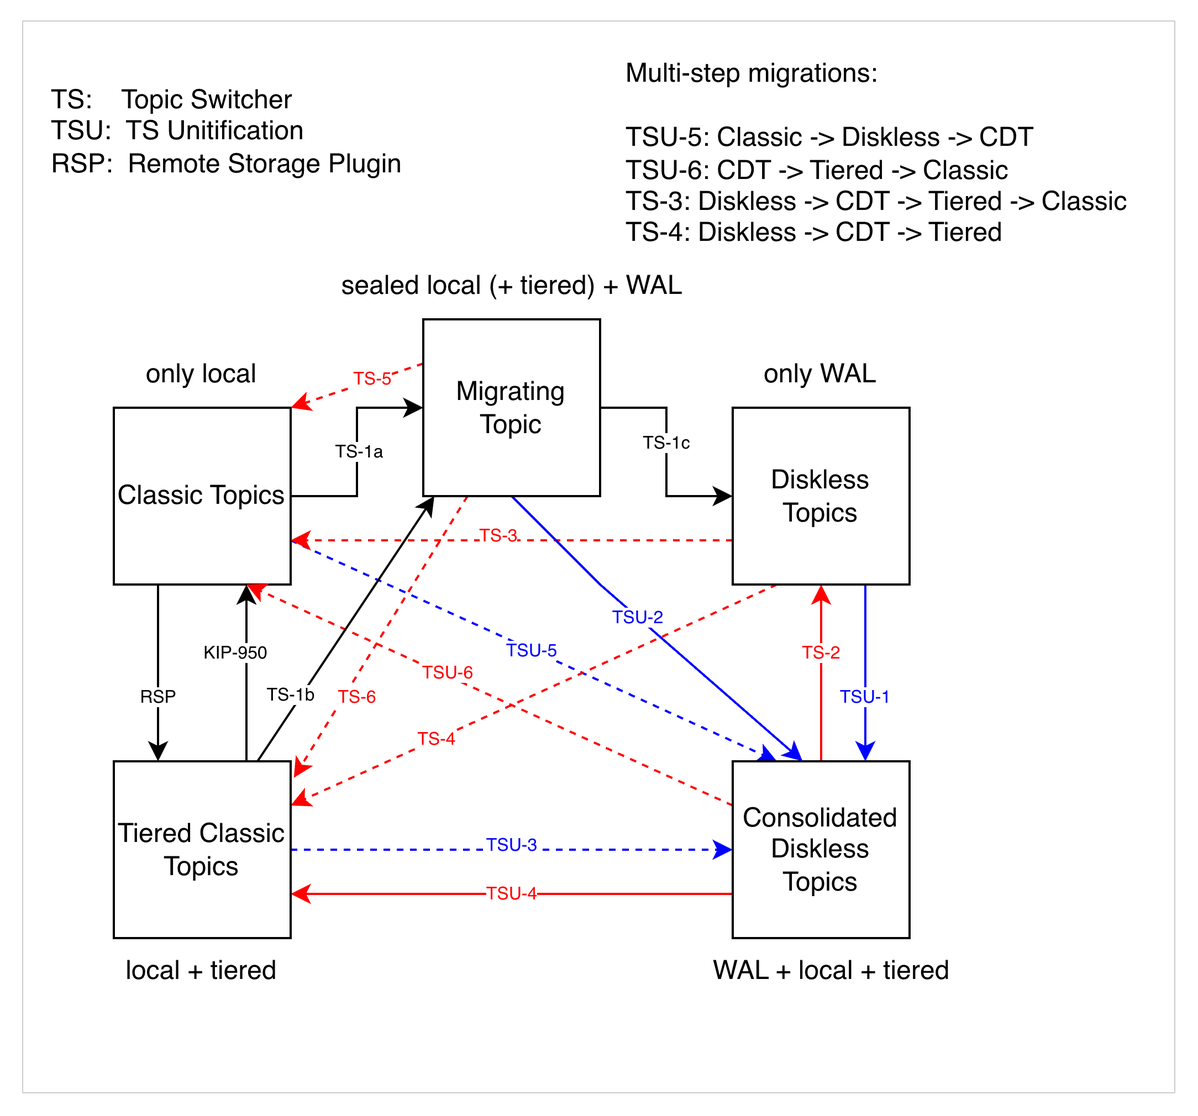
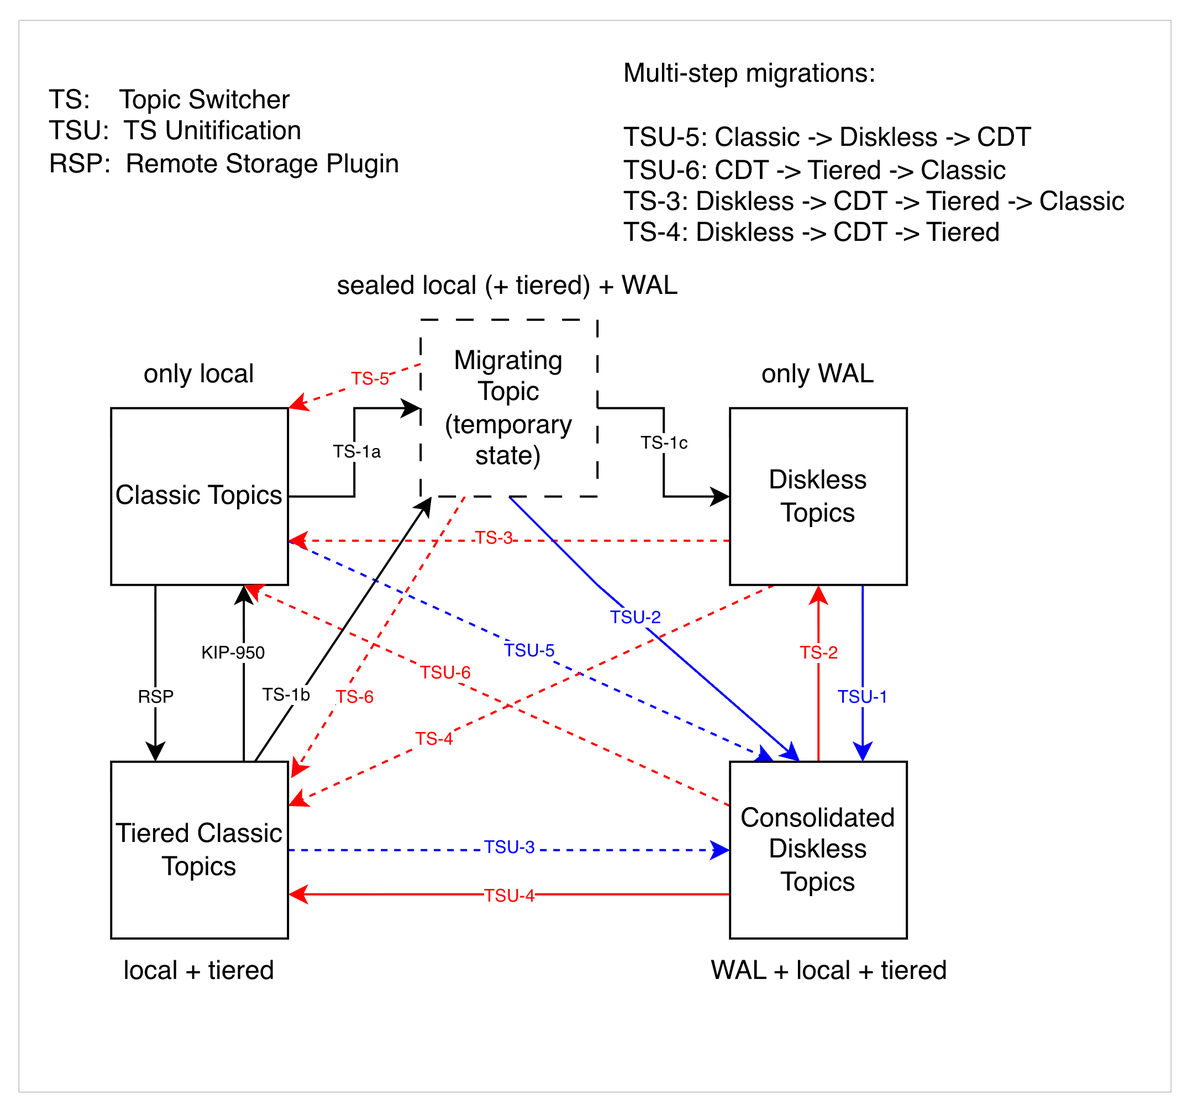
apply suggestions from code review

diff --git a/docs/inkless/DISKLESS_CONSOLIDATION.md b/docs/inkless/DISKLESS_CONSOLIDATION.md
@@ -1,10 +1,12 @@
 # Tiered storage consolidation
 
-Tiered storage consolidation (TS consolidation, internally "TS unification") distills diskless Write-Ahead Log (WAL) segments into classic Kafka log segments and tiers them to remote storage. The result is a *consolidated diskless topic* (CDT): a topic that writes through the diskless fast path and reads like a tiered topic. The diskless WAL is a temporary buffer, not long-term storage.
+Tiered storage consolidation (TS consolidation) distills diskless Write-Ahead Log (WAL) segments into classic Kafka log segments and tiers them to remote storage. The result is a *consolidated diskless topic* (CDT): a topic that writes through the diskless fast path and reads like a tiered topic. The diskless WAL is a temporary buffer, not long-term storage.
 
-A consolidated diskless topic has both `diskless.enable=true` and `remote.storage.enable=true`. The classic-to-diskless switch sets both atomically. For more information, see [CLASSIC_TO_DISKLESS_SWITCH.md](CLASSIC_TO_DISKLESS_SWITCH.md). A switched or born-consolidated topic is therefore always consolidating.
+Internally, **TS unification** is the umbrella for three features: [managed replicas](FEATURES.md#managed-replicas), the [classic-to-diskless switch](CLASSIC_TO_DISKLESS_SWITCH.md), and TS consolidation. This document is the consolidation piece.
 
-The broker gates the feature behind `diskless.remote.storage.consolidation.enable`. That flag also requires `diskless.allow.from.classic.enable=true`, managed replicas, and `remote.log.storage.system.enable=true`.
+A consolidated diskless topic has both `diskless.enable=true` and `remote.storage.enable=true`. Origin and consolidation are separate. A *born-diskless* topic is created with `diskless.enable=true` and consolidates only if it is also created with `remote.storage.enable=true`. A *born-classic* topic consolidates after the [classic-to-diskless switch](CLASSIC_TO_DISKLESS_SWITCH.md), which sets both flags atomically, so a switched topic is always consolidating.
+
+The broker gates the feature behind `diskless.remote.storage.consolidation.enable`, which currently defaults to `false`. That flag also requires `diskless.allow.from.classic.enable=true`, managed replicas, and `remote.log.storage.system.enable=true`. Consolidation will be the default going forward.
 
 ## Motivation
 
@@ -37,13 +39,11 @@ The better shape matches the Kafka replica-fetcher model. A leader replica handl
 
 ### Consolidation pipeline
 
-Without consolidation, the diskless coordinator stores WAL segments in object storage. They remain there until `log.local.retention.ms` elapses, then the broker deletes them.
+Without consolidation, diskless WAL segments are stored in object storage. They remain there until `log.local.retention.ms` elapses, then the broker deletes them.
 
 With consolidation, a fetcher reads the oldest batches from the diskless WAL, in insertion order so ordering is preserved, and appends them to a per-partition `UnifiedLog` through the `Partition` class. The `RemoteLogManager` copies those local segments to remote storage the same way it does for a classic tiered topic. After remote storage confirms a batch, the pruner deletes the matching WAL data.
 
-The fetcher splits interleaved WAL files into per-partition local segments. The `RemoteLogManager` then tiers those segments to remote storage.
-
-The consolidation pipeline is a specialized replica-fetcher. It pulls from the diskless tier (object storage and the control plane) instead of from a leader broker. For the component breakdown, see [Implementation](#implementation).
+The fetcher splits interleaved WAL files into per-partition local segments. The `RemoteLogManager` then tiers those segments to remote storage. For the component breakdown, see [Implementation](#implementation).
 
 ### Log continuity
 
@@ -113,14 +113,14 @@ Followers must never replicate diskless records into their local log. When a par
 
 ### Cross-tier log start offset
 
-On a born-consolidated topic, the earliest readable offset eventually lives only in the remote tier: the diskless WAL is pruned and local segments are evicted, yet `ListOffsets(EARLIEST)` must still point at real data. When `retention.ms` expires the oldest remote segments, only the partition's classic leader observes the earliest offset advancing. Its `RemoteLogManager` raises `UnifiedLog.logStartOffset` as it deletes them. That value is broker-local. Followers fetch from the diskless WAL and never learn it, and the control plane's `log_start_offset` tracks only the WAL prune frontier, not the remote-retention frontier.
+On a consolidating born-diskless topic, the earliest readable offset eventually lives only in the remote tier: the diskless WAL is pruned and local segments are evicted, yet `ListOffsets(EARLIEST)` must still point at real data. When `retention.ms` expires the oldest remote segments, only the partition's classic leader observes the earliest offset advancing. Its `RemoteLogManager` raises `UnifiedLog.logStartOffset` as it deletes them. That value is broker-local. Followers fetch from the diskless WAL and never learn it, and the control plane's `log_start_offset` tracks only the WAL prune frontier, not the remote-retention frontier.
 
 Without this feature, `ListOffsets(EARLIEST_TIMESTAMP)` (`--time -2`) served by any non-leader broker returned a stale `0`, pointing consumers at data that no longer exists. `EARLIEST_LOCAL_TIMESTAMP` (`--time -4`) is intentionally unaffected: it must keep returning the diskless WAL log start.
 
 The leader is the only participant that knows the cross-tier earliest offset, but any broker must be able to serve it. The control plane is the source of truth, with a short-TTL cache:
 
-- **Write path (leader).** `CrossTierLogStartReporter` buffers per-partition updates, drops non-advancing ones, coalesces, and flushes to the control plane once a second. On success it writes through to the cache. The `RemoteLogManager` callback in `BrokerServer`/`ReplicaManager` triggers it on the leader. It is a no-op for non-consolidating and classic topics, and for strictly negative offsets. `0` is meaningful and is reported: it is the cross-tier earliest of a freshly-tiered born-consolidated topic whose WAL prune frontier has advanced above it.
-- **Read path (any broker).** `FetchOffsetHandler` serves `EARLIEST` on a consolidating diskless topic through the `CrossTierLogStartCache` first. On a miss it queries the control plane and populates the cache. `DisklessFetchOffsetRouter` routes `EARLIEST` for every consolidating partition (born-consolidated and switched alike) to this control-plane leg, never to the broker-local classic log. That routing is required under managed replicas. `InklessTopicMetadataTransformer` advertises a hash-selected replica (usually a follower) as the partition leader, and a follower's local classic log start is frozen at the switch. Serving `EARLIEST` from that local start would pin the client-visible earliest at a stale value, for example `0` after a `DeleteRecords` the follower never applied. The control-plane value is broker-agnostic, so every broker returns the same cross-tier earliest. Non-consolidating switched partitions keep serving `EARLIEST` from the classic leg while it still owns the pre-switch prefix.
+- **Write path (leader).** `CrossTierLogStartReporter` buffers per-partition updates, drops non-advancing ones, coalesces, and flushes to the control plane once a second. On success it writes through to the cache. The `RemoteLogManager` callback in `BrokerServer`/`ReplicaManager` triggers it on the leader. It is a no-op for non-consolidating and classic topics, and for strictly negative offsets. `0` is meaningful and is reported: it is the cross-tier earliest of a freshly-tiered consolidating born-diskless topic whose WAL prune frontier has advanced above it.
+- **Read path (any broker).** `FetchOffsetHandler` serves `EARLIEST` on a consolidating diskless topic through the `CrossTierLogStartCache` first. On a miss it queries the control plane and populates the cache. `DisklessFetchOffsetRouter` routes `EARLIEST` for every consolidating partition (born-diskless and switched alike) to this control-plane leg, never to the broker-local classic log. That routing is required under managed replicas. `InklessTopicMetadataTransformer` advertises a hash-selected replica (usually a follower) as the partition leader, and a follower's local classic log start is frozen at the switch. Serving `EARLIEST` from that local start would pin the client-visible earliest at a stale value, for example `0` after a `DeleteRecords` the follower never applied. The control-plane value is broker-agnostic, so every broker returns the same cross-tier earliest. Non-consolidating switched partitions keep serving `EARLIEST` from the classic leg while it still owns the pre-switch prefix.
 - **Whole-log start and reclaim floor (leader).** The same control-plane value is the authoritative whole-log start and remote-retention reclaim floor for a consolidating partition, not the broker-local `UnifiedLog.logStartOffset`. On a freshly-elected leader whose classic prefix was already evicted, the leadership rebuild pins the local log start at the seal, and that start can only increment. Using it would over-reclaim the remote classic prefix `[earliest, seal)` and reject reads of that prefix as out-of-range. `DisklessLeaderEndPoint` therefore reports `min(X, localLogStart)` as the whole-log start, so a read of the surviving prefix redirects to the remote tier and the tier-state rebuild restarts at `X`. `RemoteLogManager` uses `X` as the log-start-breach reclaim floor and the become-leader report. Both go through `ReplicaManager.crossTierEarliestOffset`, where `X` is `COALESCE(remote_log_start_offset, log_start_offset)`. This runs on the `RemoteLogManager` leader, which under managed replicas differs from the broker that served a `DeleteRecords`, so a broker-agnostic source is mandatory.
 - **Cache.** Caffeine-backed with a TTL and a monotonic `put` (a `Null` implementation disables it); owned by `SharedState`. A stale entry can only ever be too low (the safe direction), so it only delays when a retention advance becomes visible off-leader.
 - **Storage.** The value is kept in `logs.remote_log_start_offset` (migration `V16`), advanced only forward via `advance_cross_tier_log_start_offset_v1`. `list_offsets_v1` (migration `V17`) returns it for `EARLIEST`, while `EARLIEST_LOCAL` keeps returning `log_start_offset`.
@@ -233,7 +233,7 @@ The reconciler runs per partition before a fetcher is armed. It enforces the `di
 ```mermaid
 flowchart TD
     start([Partition becomes online]) --> seal{classicToDisklessStartOffset?}
-    seal -- "NO_CLASSIC_TO_DISKLESS_START_OFFSET\n(born-diskless / born-consolidated)" --> ready[Ready: arm at initialFetchOffset]
+    seal -- "NO_CLASSIC_TO_DISKLESS_START_OFFSET\n(born-diskless)" --> ready[Ready: arm at initialFetchOffset]
     seal -- "SWITCH_PENDING" --> retry[Retry: classic switch in progress]
     seal -- "seal >= 0" --> remote{remote.storage.enable?}
     remote -- "off" --> failed[Failed: invariant violation\nsee DisklessWithoutRemoteStorageCount]
@@ -319,7 +319,7 @@ Broker-level configs live in `ServerConfigs` (no prefix) and `InklessConfig` (un
 | ---------------------------------------------- | ------- | ------------------------------------------------------------------------------------------------------------------------------------------------------------------------------ |
 | `diskless.remote.storage.consolidation.enable` | `false` | Enables the consolidation framework. Requires `diskless.allow.from.classic.enable=true`, `diskless.managed.rf.enable=true`, and `remote.log.storage.system.enable=true`. |
 
-Per topic, consolidation runs when `diskless.enable=true` and `remote.storage.enable=true`. The classic-to-diskless switch sets both atomically. A born-consolidated topic is created with both.
+Per topic, consolidation runs when `diskless.enable=true` and `remote.storage.enable=true`. The classic-to-diskless switch sets both atomically. A born-diskless topic consolidates when it is created with both.
 
 ### Consolidation fetcher tuning
 
@@ -375,7 +375,7 @@ Unit tests cover the feature. They include `DeleteRecords` into a switched topic
 
 Integration tests cover produce and consume on consolidating topics, reads that cross the local/diskless boundary, concurrent produce during consolidation, a classic-to-diskless-to-consolidated switch, and reassignment that resumes consolidation on a new broker without data loss.
 
-System tests (ducktape) cover born-consolidated and switched consolidating topics. To run them, see [SYSTEM_TESTS.md](SYSTEM_TESTS.md). They cover the following:
+System tests (ducktape) cover consolidating born-diskless topics and switched topics. To run them, see [SYSTEM_TESTS.md](SYSTEM_TESTS.md). They cover the following:
 
 - The pipeline: the WAL drains into the local log and then to remote storage, the WAL is pruned, and every acked record is still consumable. Consolidation JMX gauges are asserted along the way.
 - Durability after local loss: once the prefix is remote-only, wiping every partition directory and restarting still serves the full log from remote storage, including a switched topic whose offset 0 was written under a classic epoch.
@@ -384,5 +384,6 @@ System tests (ducktape) cover born-consolidated and switched consolidating topic
 
 ## Related documents
 
+- [FEATURES.md](FEATURES.md#managed-replicas): Managed replicas, the replica-assignment piece of TS unification.
 - [CLASSIC_TO_DISKLESS_SWITCH.md](CLASSIC_TO_DISKLESS_SWITCH.md): The classic-to-diskless migration that produces a consolidating topic. Sets `diskless.enable` and `remote.storage.enable` atomically.
-- [ARCHITECTURE.md](ARCHITECTURE.md), [FEATURES.md](FEATURES.md), [GLOSSARY.md](GLOSSARY.md).
+- [ARCHITECTURE.md](ARCHITECTURE.md), [GLOSSARY.md](GLOSSARY.md).

diff --git a/docs/inkless/GLOSSARY.md b/docs/inkless/GLOSSARY.md
@@ -32,15 +32,27 @@ A local in-memory cache (Caffeine) on each broker that stores the metadata of re
 **Batch Index**
 Another term for the Batch Coordinator's storage layer. In the PostgreSQL implementation, this refers to the database tables that store batch coordinates.
 
+**Born-Classic Topic**
+A topic created with `diskless.enable=false`. It stores data on local broker disks and may use classic tiered storage. It can later become diskless through the [Classic-to-Diskless Switch](#classic-to-diskless-switch). Contrast with [Born-Diskless Topic](#born-diskless-topic).
+
+**Born-Diskless Topic**
+A topic created with `diskless.enable=true`. It has no classic prefix and no seal (`classicToDisklessStartOffset` is unset). Consolidation is a separate property: a born-diskless topic consolidates only when it also has `remote.storage.enable=true`. Older text sometimes called that combination "born-consolidated"; use *born-diskless* for origin and *consolidating* (or [CDT](#consolidated-diskless-topic-cdt)) for the storage mode. Contrast with a [Switched Topic](#switched-topic), which started as [born-classic](#born-classic-topic).
+
 ---
 
 ## C
 
 **Classic Topics**
-Standard Apache Kafka topics that store data on local broker disks with replication. Contrasted with diskless topics.
+Standard Apache Kafka topics that store data on local broker disks with replication. Contrasted with diskless topics. See also [Born-Classic Topic](#born-classic-topic).
+
+**Classic-to-Diskless Switch**
+The protocol that migrates a classic topic to diskless storage by sealing the local log and initializing a diskless log from the committed seal. One of the three features under [TS Unification](#ts-unification--tiered-storage-unification). See [CLASSIC_TO_DISKLESS_SWITCH.md](./CLASSIC_TO_DISKLESS_SWITCH.md).
 
 **Cold Path**
 The fetch processing path for lagging consumer requests (data older than the threshold). Bypasses cache to avoid evicting hot data, uses a dedicated bounded executor pool with optional rate limiting, and a separate storage client for resource isolation. See also: [Hot Path](#hot-path).
+
+**Consolidated Diskless Topic (CDT)**
+A topic with both `diskless.enable=true` and `remote.storage.enable=true`. Writes go through the diskless WAL; [TS Consolidation](#ts-consolidation--tiered-storage-consolidation) rewrites those WAL segments into classic Kafka log segments and tiers them to remote storage. A CDT is either a [born-diskless](#born-diskless-topic) topic created with remote storage, or a [switched](#switched-topic) topic. See [DISKLESS_CONSOLIDATION.md](./DISKLESS_CONSOLIDATION.md).
 
 **Control Plane**
 The metadata management layer in Inkless, responsible for coordinating batch commits and lookups. See also: [Batch Coordinator](#batch-coordinator).
@@ -50,7 +62,7 @@ The metadata management layer in Inkless, responsible for coordinating batch com
 ## D
 
 **Diskless Topics**
-Topics configured with `diskless.enable=true` that store data in object storage instead of on local broker disks. The core feature of Inkless.
+Topics configured with `diskless.enable=true` that store data in object storage instead of on local broker disks. The core feature of Inkless. See also [Born-Diskless Topic](#born-diskless-topic).
 
 **`diskless_az`**
 A marker embedded in the `client.id` configuration to communicate the client's availability zone to brokers. Format: `client.id=<app>,diskless_az=<rack>` where `<rack>` matches the broker's `broker.rack` value. See [CLIENT-BROKER-AZ-ALIGNMENT.md](./CLIENT-BROKER-AZ-ALIGNMENT.md) for details.
@@ -84,7 +96,7 @@ Unlike traditional Kafka where a partition leader handles all writes and most re
 ## M
 
 **Managed Replicas**
-Diskless topics created with `diskless.managed.rf.enable=true` use real KRaft-managed replicas with rack-aware placement. These replicas are metadata-only — there is no inter-broker data replication (data remains in object storage). Unlike legacy RF=1 diskless topics, managed replicas provide deterministic replica assignments, standard Kafka tooling compatibility, and a foundation for future topic migration (Classic <-> Diskless). ISR membership for managed replicas is liveness-gated (not lag-gated) since data is in object storage. See [FEATURES.md](./FEATURES.md#managed-replicas) for details.
+Diskless topics created with `diskless.managed.rf.enable=true` use real KRaft-managed replicas with rack-aware placement. These replicas are metadata-only — there is no inter-broker data replication (data remains in object storage). Unlike legacy RF=1 diskless topics, managed replicas provide deterministic replica assignments, standard Kafka tooling compatibility, and a foundation for topic migration (Classic <-> Diskless). ISR membership for managed replicas is liveness-gated (not lag-gated) since data is in object storage. One of the three features under [TS Unification](#ts-unification--tiered-storage-unification). See [FEATURES.md](./FEATURES.md#managed-replicas) for details.
 
 **Mixed Cluster**
 A Kafka cluster containing both classic topics (using local disk storage) and diskless topics (using object storage).
@@ -135,12 +147,21 @@ A PostgreSQL read replica used to scale batch coordinate lookups. Configured via
 **Storage Backend**
 The object storage implementation (S3, GCS, or Azure Blob). Configured via `inkless.storage.backend.class`.
 
+**Switched Topic**
+A [born-classic](#born-classic-topic) topic that completed the [classic-to-diskless switch](#classic-to-diskless-switch). The seal splits the log: classic prefix `[0, seal)`, diskless region `[seal, LEO)`. The switch sets `diskless.enable` and `remote.storage.enable` together, so a switched topic is always a [CDT](#consolidated-diskless-topic-cdt).
+
 ---
 
 ## T
 
 **Tail Consumer**
 A consumer reading recent data from near the "tail" (end) of the log. Tail consumers benefit from cache hits and the hot path. The opposite of a [Lagging Consumer](#lagging-consumer--trailing-consumer).
+
+**TS Consolidation** / **Tiered Storage Consolidation**
+The pipeline that rewrites diskless WAL segments into classic Kafka log segments and tiers them to remote storage. One of the three features under [TS Unification](#ts-unification--tiered-storage-unification). See [DISKLESS_CONSOLIDATION.md](./DISKLESS_CONSOLIDATION.md).
+
+**TS Unification** / **Tiered Storage Unification**
+Internal umbrella name for [Managed Replicas](#managed-replicas), the [Classic-to-Diskless Switch](#classic-to-diskless-switch), and [TS Consolidation](#ts-consolidation--tiered-storage-consolidation). TS unification is not a synonym for TS consolidation.
 
 ---
 

diff --git a/docker/examples/docker-compose-files/inkless/README.md b/docker/examples/docker-compose-files/inkless/README.md
@@ -12,7 +12,7 @@ See the [Quickstart guide](../../../../docs/inkless/QUICKSTART.md#dockerized-dem
 | `make gcs-local`        | Fake GCS server                                   |
 | `make azure-local`      | Azurite Azure-compatible storage                  |
 | `make s3-aws`           | Real AWS S3 (requires AWS credentials)            |
-| `make ts-unification`   | Diskless tiered storage unification               |
+| `make ts-unification`   | TS unification (managed replicas, switch, consolidation) |
 | `make destroy`          | Manual cleanup (run after stopping the demo)      |
 
 ## Image version
@@ -29,7 +29,7 @@ See [Releases](../../../../docs/inkless/RELEASES.md#docker-images) for all avail
 
 ## Diskless Tiered Storage Unification
 
-Test classic-to-diskless switch and tiered storage unification features. The Inkless image bundles the
+Test the TS unification features: managed replicas, classic-to-diskless switch, and TS consolidation. The Inkless image bundles the
 [Aiven Tiered Storage plugin](https://github.com/Aiven-Open/tiered-storage-for-apache-kafka) (v1.1.1) —
 no local plugin build required.
 

diff --git a/docs/inkless/FEATURES.md b/docs/inkless/FEATURES.md
@@ -149,7 +149,7 @@ If not specified above, features are untested and assumed to be inoperable.
 
 ## Managed Replicas
 
-Diskless topics can optionally use **managed replicas** — real KRaft-managed replicas with rack-aware placement. These replicas are metadata-only: they provide deterministic broker assignment and leadership, but there is no inter-broker data replication (data remains in object storage). This is controlled by the `diskless.managed.rf.enable` server configuration.
+Diskless topics can optionally use **managed replicas** — real KRaft-managed replicas with rack-aware placement. These replicas are metadata-only: they provide deterministic broker assignment and leadership, but there is no inter-broker data replication (data remains in object storage). This is controlled by the `diskless.managed.rf.enable` server configuration. Internally, managed replicas are one of the three features under **TS unification**, together with the [classic-to-diskless switch](CLASSIC_TO_DISKLESS_SWITCH.md) and [TS consolidation](DISKLESS_CONSOLIDATION.md).
 
 ### Activation
 

diff --git a/AGENTS.md b/AGENTS.md
@@ -45,6 +45,7 @@ Read these only when a task touches the relevant area. All docs are under
 | `QUICKSTART.md`                                   | To run Inkless via Docker or locally.                                        |
 | `PERFORMANCE.md`                                  | Producer/consumer tuning guidance.                                           |
 | `CLASSIC_TO_DISKLESS_SWITCH.md`                   | To work on switching classic topics to diskless.                             |
+| `DISKLESS_CONSOLIDATION.md`                       | TS consolidation, it distills WAL segments into classic logs.                |
 | `CLIENT-BROKER-AZ-ALIGNMENT.md`                   | Multi-AZ deployment and cost optimization.                                   |
 | `CREATE-TOPICS-INTERCEPTORS.md`                   | The interceptors on the `CREATE_TOPIC` path.                                 |
 | `VERSIONING-STRATEGY.md`                          | The version format and release workflow.                                     |

diff --git a/docs/inkless/README.md b/docs/inkless/README.md
@@ -35,6 +35,8 @@ See [Releases](RELEASES.md) for active versions and release history.
 - [Features](FEATURES.md) - Currently supported features, API compatibility, and [managed replicas](FEATURES.md#managed-replicas)
 
 ### Feature Deep-Dives
+Internally, **TS unification** is the umbrella for [managed replicas](FEATURES.md#managed-replicas), classic-to-diskless switch, and TS consolidation.
+
 - [Tiered Storage Consolidation](DISKLESS_CONSOLIDATION.md) - Consolidating diskless WAL segments into tiered Kafka log segments
 - [Classic to Diskless Switch](CLASSIC_TO_DISKLESS_SWITCH.md) - Migrating classic topics to diskless (and consolidated) topics
 - [CREATE_TOPIC interceptors](CREATE-TOPICS-INTERCEPTORS.md) - Intercepting topic creation (e.g. forced diskless/classic)

diff --git a/docs/inkless/CLASSIC_TO_DISKLESS_SWITCH.md b/docs/inkless/CLASSIC_TO_DISKLESS_SWITCH.md
@@ -2,6 +2,8 @@
 
 This document describes the implementation flow for switching a classic Kafka topic to diskless storage. The switch is driven by metadata records: the controller first marks each partition as switch-pending, the leader seals the local classic log and asks the controller to commit the final start offset, then the broker initializes the diskless log on the control plane from the committed metadata.
 
+Internally, the switch is one of the three features under **TS unification**, together with [managed replicas](FEATURES.md#managed-replicas) and [TS consolidation](DISKLESS_CONSOLIDATION.md).
+
 ## Requirements and Guarantees
 
 The switch protocol is designed with the following guarantees and constraints:
